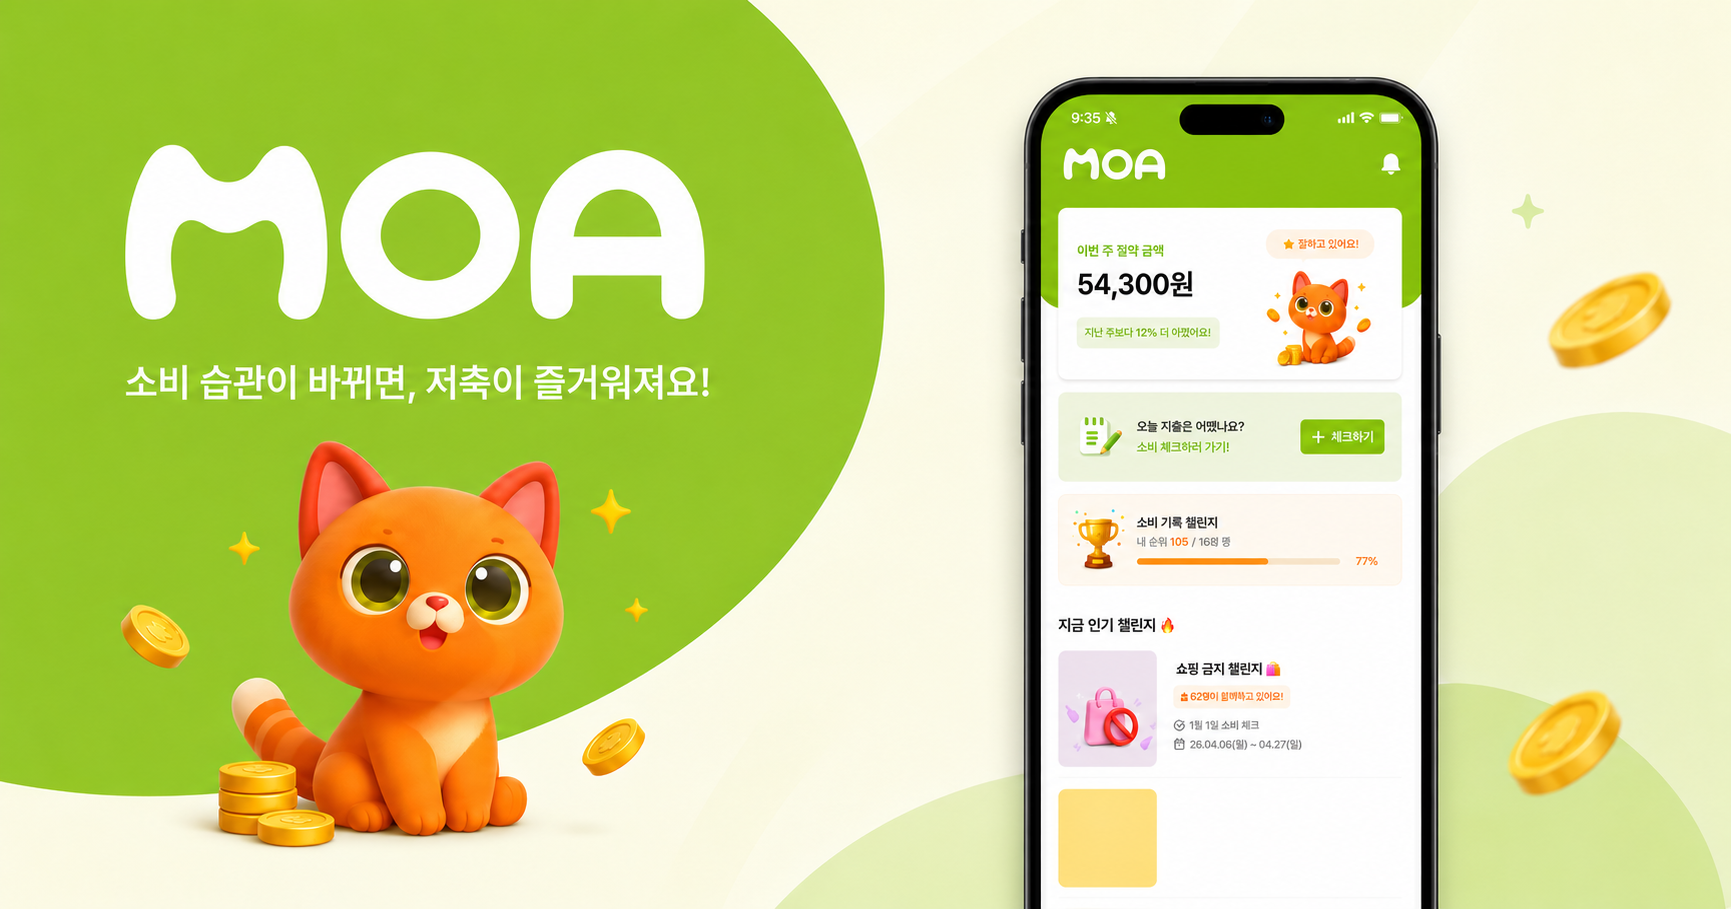
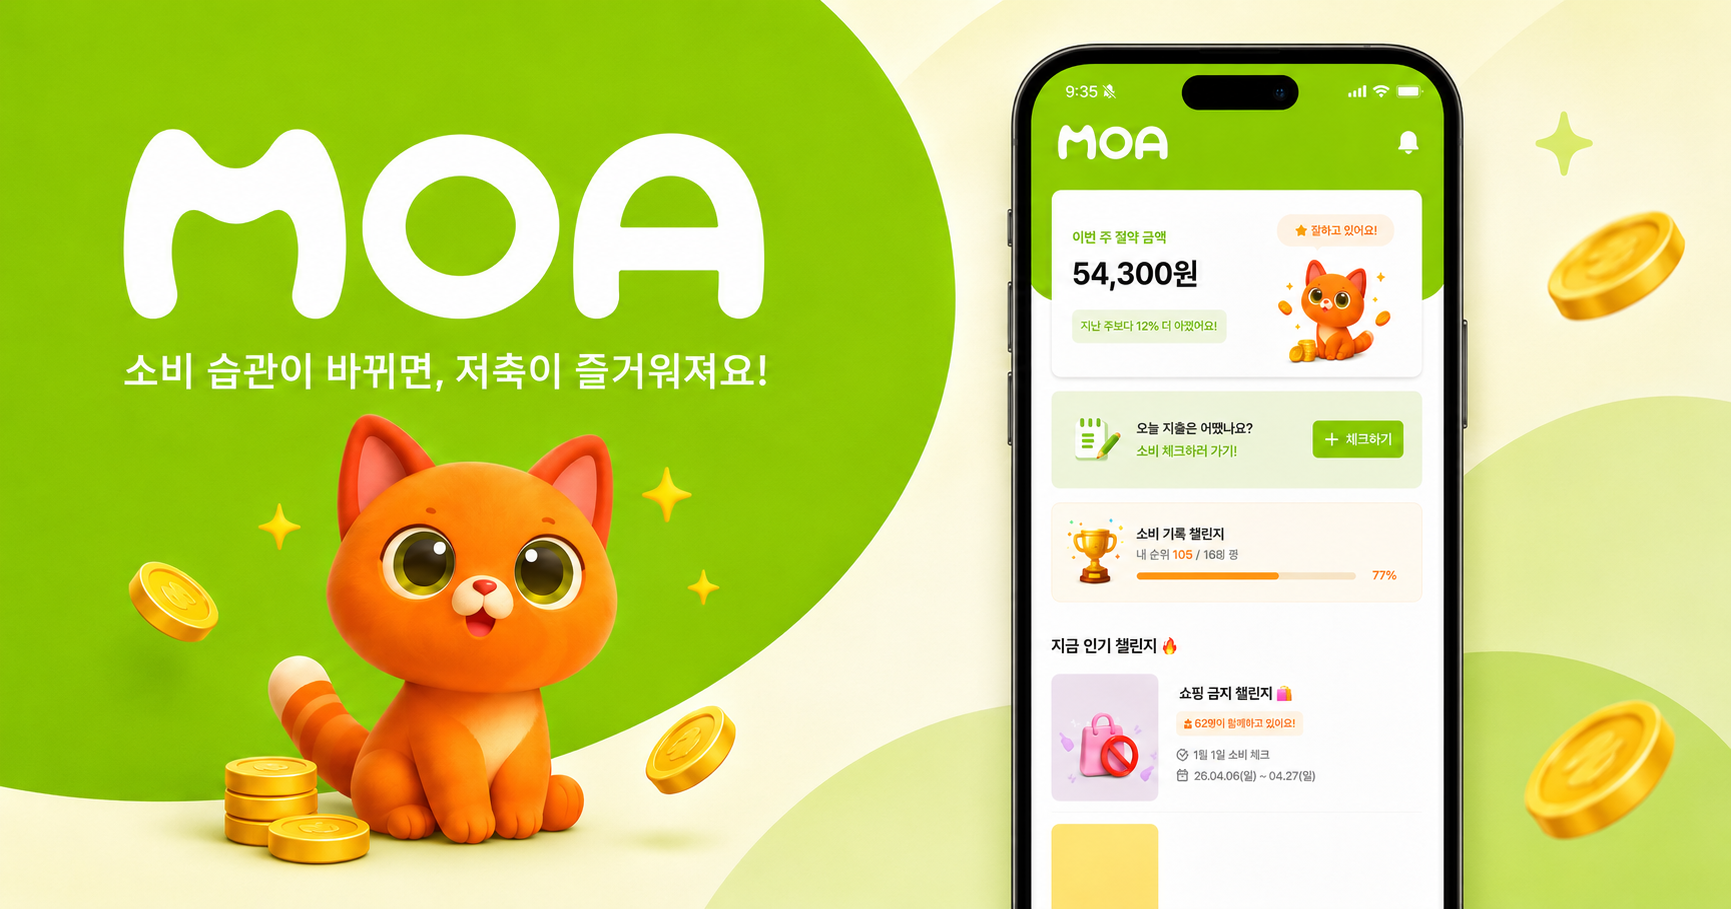
og_cat 이미지 업데이트, 배경색 조정

diff --git a/src/styles/global.css b/src/styles/global.css
@@ -30,7 +30,7 @@ input  { font-family: inherit; }
 
 body {
   font-family: 'Pretendard', -apple-system, BlinkMacSystemFont, 'Apple SD Gothic Neo', sans-serif;
-  background: #7ab800;
+  background: #6b7a69;
   display: flex;
   justify-content: center;
   align-items: flex-start;